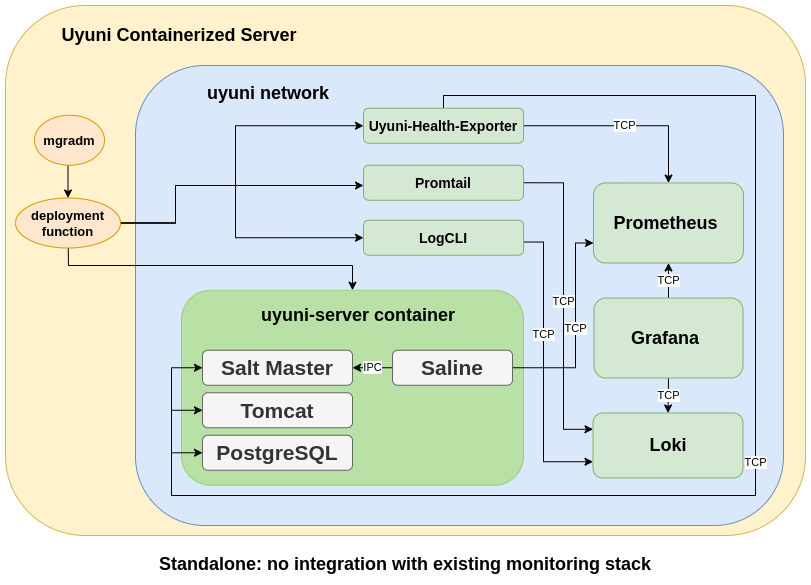
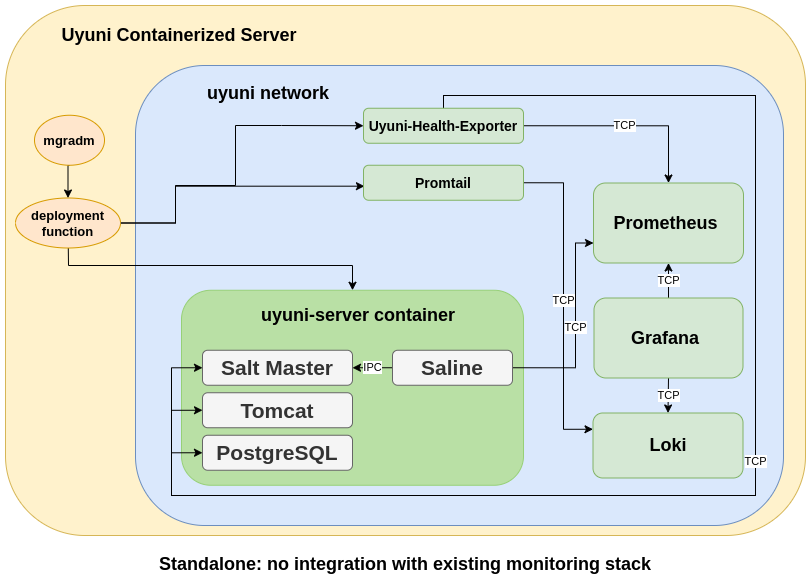
Health-Check: Align disconnected design with implementation

diff --git a/accepted/00101-health-check-tool.md b/accepted/00101-health-check-tool.md
@@ -39,7 +39,7 @@ As an engineer responsible for maintaining the Uyuni codebase, I want to efficie
 
 ## Component Overview
 
-### Health-Check-Tool
+### Health-Check
 
 * Loki/Promtail: These two components are for log aggregation, indexing and querying. Loki acts as the centralized logging system, storing and managing logs, while Promtail is deployed on the Uyuni server to collect logs and forward them to Loki.
 
@@ -48,8 +48,6 @@ As an engineer responsible for maintaining the Uyuni codebase, I want to efficie
 * Uyuni-Health-Exporter: A custom exporter to gather specific metrics related to Uyuni server health, including database, service status, and resource usage.
 
 * Alerting System: Leveraging Loki and Prometheus alerting mechanism, configured to monitor critical metrics and log patterns, triggering alerts based on predefined thresholds. Using Alertmanager for sending notifications.
-
-* LogCLI: A command-line interface tool provided by Loki, LogCLI enables direct querying of logs stored in Loki from the terminal. It supports running LogQL queries, live tailing of logs, and viewing logs in a flexible output format. This tool is particularly useful for administrators and developers who prefer to work within a CLI environment for quick log searches, debugging, and log analysis without the need for a graphical interface.
 
 Proof-of-Concept: https://github.com/uyuni-project/poc-uyuni-health-check
 
@@ -65,7 +63,7 @@ This RFC proposes the following solutions:
 
 ### Integrated solution: extending existing monitoring stack
 
-* Monitoring Formula Integration: Loki/Promtail and `uyuni_health_exporter` configurations are managed via Uyuni's monitoring formula, ensuring seamless integration and ease of deployment. Making Saline and Health Check a part of the current Monitoring formulas.
+* Monitoring Formula Integration: Loki/Promtail and Uyuni-Health-Exporter configurations are managed via Uyuni's monitoring formula, ensuring seamless integration and ease of deployment. Making Saline and Health-Check a part of the current Monitoring formulas.
 
 * Additional Monitoring Formulas: Similar to the previous approach, integration with current Monitoring stack but using a separated formulas.
 
@@ -73,7 +71,7 @@ This RFC proposes the following solutions:
 
 ### Standalone solution: containerized deployment including Loki, Promtail and Grafana
 
-* Containerized Deployment: The Health-Check-Tool components, including Loki, Promtail, Grafana, and the Uyuni-Health-Exporter, are deployed as containers sharing the same network, allowing TCP communication between containers. Running all containers within the same POD would be also possible, but it would limit the deployment method on Kubernetes to be running all on the same cluster node.
+* Containerized Deployment: The Health-Check components, including Loki, Promtail, Grafana, and the Uyuni-Health-Exporter, are deployed as containers sharing the same network, allowing TCP communication between containers. Running all containers within the same POD would be also possible, but it would limit the deployment method on Kubernetes to be running all on the same cluster node.
 
 ![standalone diagram](images/health-check/standalone.png)
 
@@ -89,12 +87,15 @@ This RFC proposes the following solutions:
 
 ### Disconnected solution: containerized deployment without access to an Uyuni server (via supportconfig)
 
-No access to an Uyuni server or existing monitoring stack, only access to a supportconfig.
+No access to an Uyuni server or existing monitoring stack, only access to a supportconfig. The Infinity Datasource Plugin is installed in Grafana. This Datasource pulls metrics data from the Supportconfig-Exporter endpoints.
 
 ![standalone disconnected diagram](images/health-check/standalone-disconnected.png)
 
+## Components
 
-### Component 1: Uyuni-Health-Exporter
+### Component 1: Exporters
+
+#### Uyuni-Health-Exporter
 
 Goal: Configure the Uyuni-Health-Exporter to gather metrics from the Uyuni server and managed systems. The Uyuni-Health-Exporter uses Salt runners to gather metrics.
 
@@ -103,6 +104,13 @@ Steps:
   - Deploy the Uyuni-Health-Exporter as a containerized application.
   - Ensure the Uyuni-Health-Exporter is accessible for Prometheus to scrape metrics.
   - Ensure the Uyuni-Health-Exporter can run Salt runner commands targeting the server.
+
+#### Supportconfig-Exporter (disconected solution)
+
+Steps:
+
+  - Deploy the Supportconfig-Exporter as a containerized application.
+  - Ensure the Supportconfig-Exporter is accessible for the Infinity Datasource Plugin to scrape metrics.
 
 ### Component 2: Prometheus
 
@@ -147,11 +155,8 @@ Steps:
     - Edit the Promtail configuration to define the paths of log files to monitor. In the containerized Uyuni environment, the Promtail container must be configured to have read access to mapped volumes that correspond to the log locations of the Uyuni server container.
     - Configure Promtail to forward logs to the Loki instance.
 
-### Component 5: LogCLI
-Goal: Incorporate LogCLI to provide a command-line interface for querying logs stored in Loki, enhancing the toolset available for diagnostics, troubleshooting and operational reporting.
 
-
-### Component 6: Supportconfig metrics gatherer
+### Component 5: Supportconfig metrics gatherer
 
 Stakeholders: Engineers and Supporters
 
@@ -159,7 +164,7 @@ Goal: Extract relevant metrics from supportconfig files.
 
 Configuration: No extra configuration needed apart from the path to the supportconfig files.
 
-### Component 7: Saline
+### Component 6: Saline
 
 Configuration: Deploy as a monitoring formula.
 
@@ -171,8 +176,8 @@ Configuration: Deploy as a monitoring formula.
 * Notification Channels: Configured within Alertmanager to support various notification mechanisms.
 
 * Alerts and Recommendations via Loki:
-    * Loki Querying: Utilize the Loki API to query log data for patterns indicative of issues or anomalies. This requires crafting LogQL queries tailored to the types of issues Uyuni Health-Check-Tool aims to detect.
-    * Alert Generation: Employ the Loki Ruler component to define alerting rules. These rules can be dynamically generated or updated based on the Uyuni Health-Check-Tool configuration, allowing for customizable alert conditions.
+    * Loki Querying: Utilize the Loki API to query log data for patterns indicative of issues or anomalies. This requires crafting LogQL queries tailored to the types of issues Uyuni Health-Check Tool aims to detect.
+    * Alert Generation: Employ the Loki Ruler component to define alerting rules. These rules can be dynamically generated or updated based on the Uyuni Health-Check Tool configuration, allowing for customizable alert conditions.
 
 * Implementing alerts and recommendations involve:
     * Defining LogQL Queries: Writing LogQL queries that match the relevant conditions.
@@ -237,7 +242,7 @@ When the tool has access to an Uyuni server, it can run either "standalone" or v
 
 
 # Security considerations
-In the current design, we are exposing metrics via Prometheus and making them available in Grafana, and more importantly we are exposing log messages via Loki/LogCLI to CLI and Grafana users. It is important to notice that after running this tool, and until related containers are destroyed, the Grafana Dashboards (and other components like Prometheus and Loki/LogCLI) are exposing metrics and log messages that may contain sensitive data and information to any non-root user on the system or to anyone that have access to this host in the network.
+In the current design, we are exposing metrics via Prometheus and making them available in Grafana, and more importantly we are exposing log messages via Loki to Grafana users. It is important to notice that after running this tool, and until related containers are destroyed, the Grafana Dashboards (and other components like Prometheus and Loki) are exposing metrics and log messages that may contain sensitive data and information to any non-root user on the system or to anyone that have access to this host in the network.
 
 The Promtail pipeline definition can be enhanced to use the [replace](https://grafana.com/docs/loki/latest/send-data/promtail/stages/replace/) stage in order to hide sensitive data from log files. Users must have a configuration file to define the different filters to apply to the Promtail pipeline. Filters must be also configurable via the Monitoring Formula.
 
